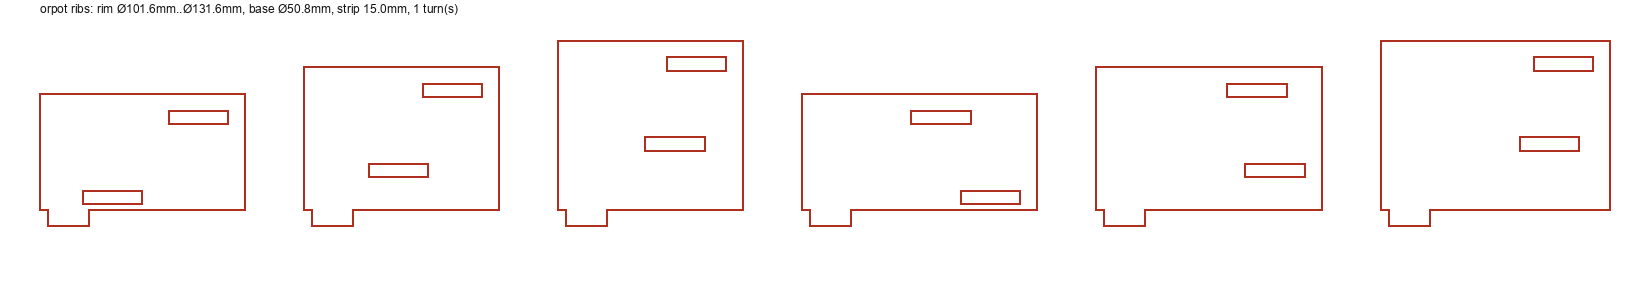
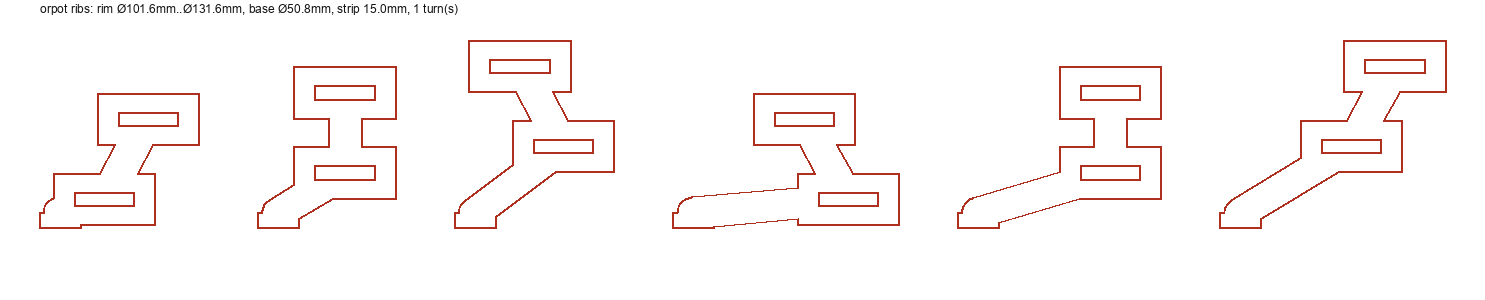
orpot: symmetric spiral spans + narrow spine ribs
- Both spirals now span the same centerline radial range in opposite
  directions (bottom 25.4->58.3, top 58.3->25.4), so each one's start radius
  equals the other's end radius (top_pitch_mm/bottom_pitch_mm default None =
  symmetric span; override to break it). Prereq for the end-joint.
- rib_style="spine" (default): each rib is now a narrow strut skeleton — a
  small collar of material around each capture slot joined by thin struts to
  the base tab — instead of a solid panel ("panel" still available).
- tests updated (ring count no longer assumes the top encloses a hole; width
  probe derives pitch from params). 10 pass.

diff --git a/orpot/ribs.py b/orpot/ribs.py
@@ -21,7 +21,7 @@ from __future__ import annotations
 import math
 
 import numpy as np
-from shapely.geometry import Polygon, box
+from shapely.geometry import LineString, Polygon, box
 from shapely.ops import unary_union
 
 from spiral import SpiralConfig, crossing_rz
@@ -47,32 +47,48 @@ def rib_crossings(
 
 def build_rib(cfg: SpiralConfig, azimuth_rad: float) -> Polygon:
     """Flat cut outline of one rib (in the s-z plane), with capture-slot holes
-    and a base tab. z=0 is the floor; the tab drops to negative z."""
+    and a base tab. z=0 is the floor; the tab drops to negative z.
+
+    cfg.rib_style: "panel" = solid rectangular fin; "spine" (default) = a narrow
+    strut skeleton — a small collar of material around each capture slot, joined
+    by thin struts down to the base tab (minimal material, most open)."""
     crossings = rib_crossings(cfg, azimuth_rad)
     if not crossings:
         raise ValueError("rib azimuth crosses no ramp")
 
     half_w = cfg.strip_w_mm / 2.0
-    s_out = max(r for _, r, _ in crossings) + half_w + cfg.rib_edge_margin_mm
-    s_in = min(cfg.rib_inner_r_mm, min(r for _, r, _ in crossings) - half_w)
-    z_top = max(z for _, _, z in crossings) + cfg.rib_top_lip_mm
-
-    body = box(s_in, 0.0, s_out, z_top)
+    fit = cfg.slot_fit_mm
+    sh = (cfg.material_th_mm + fit) / 2.0  # half slot height (z)
+    sw = (cfg.strip_w_mm + fit) / 2.0  # half slot length (radial)
 
     # Base tab (plugs down into the base disc).
     t0, t1 = cfg.rib_tab_span_mm
-    t0 = max(t0, s_in)
-    t1 = min(t1, s_out)
     tab = box(t0, -cfg.rib_tab_depth_mm, t1, 0.0)
-    outline = unary_union([body, tab])
+    tab_top = ((t0 + t1) / 2.0, 0.0)
+
+    if cfg.rib_style == "panel":
+        s_out = max(r for _, r, _ in crossings) + half_w + cfg.rib_edge_margin_mm
+        s_in = min(cfg.rib_inner_r_mm, min(r for _, r, _ in crossings) - half_w)
+        z_top = max(z for _, _, z in crossings) + cfg.rib_top_lip_mm
+        outline = unary_union([box(s_in, 0.0, s_out, z_top), tab])
+    else:  # spine
+        m = cfg.rib_collar_margin_mm
+        hw = cfg.rib_strut_w_mm / 2.0
+        pieces = [tab]
+        # A collar (small rounded-corner box) of material around each slot.
+        nodes = []  # collar centers, to route struts through
+        for _, r, z in crossings:
+            pieces.append(box(r - sw - m, z - sh - m, r + sw + m, z + sh + m))
+            nodes.append((r, z))
+        # Route struts: base tab -> nodes ordered by height (low to high).
+        route = [tab_top] + sorted(nodes, key=lambda p: p[1])
+        for a, b in zip(route, route[1:]):
+            pieces.append(LineString([a, b]).buffer(hw, cap_style="round"))
+        outline = unary_union(pieces)
 
     # Capture slots: material-thickness tall x strip-width long, + slip fit.
-    fit = cfg.slot_fit_mm
-    sh = (cfg.material_th_mm + fit) / 2.0  # half slot height
-    sw = (cfg.strip_w_mm + fit) / 2.0  # half slot length (radial)
     for _, r, z in crossings:
-        slot = box(r - sw, z - sh, r + sw, z + sh)
-        outline = outline.difference(slot)
+        outline = outline.difference(box(r - sw, z - sh, r + sw, z + sh))
 
     if not isinstance(outline, Polygon):
         outline = max(outline.geoms, key=lambda g: g.area)

diff --git a/orpot/spiral.py b/orpot/spiral.py
@@ -44,8 +44,8 @@ class SpiralConfig:
     strip_w_mm: float = 15.0  # ribbon width for both spirals
     base_dia_mm: float = 2.0 * MM_PER_INCH  # bottom spiral base disc Ø = 50.8
     turns: float = 1.0  # revolutions per spiral
-    top_pitch_mm: float = 15.0  # top ribbon radial advance per rev (inward)
-    bottom_pitch_mm: float | None = None  # None => auto: reach r_max in `turns`
+    top_pitch_mm: float | None = None  # None => symmetric span (winds in to base_r)
+    bottom_pitch_mm: float | None = None  # None => symmetric span (winds out to R_max)
     seg_mm: float = 0.5  # spiral point spacing (curve smoothness)
     min_segment_mm: float = 0.3  # gcode decimation floor (see emit.py)
     margin_mm: float = 8.0  # inset from origin so coords stay positive
@@ -64,6 +64,9 @@ class SpiralConfig:
     rib_tab_depth_mm: float = (
         4.0  # how far the base tab drops below z=0 (into the disc)
     )
+    rib_style: str = "spine"  # "spine" (narrow struts) or "panel" (solid fin)
+    rib_collar_margin_mm: float = 5.0  # material around each capture slot (spine)
+    rib_strut_w_mm: float = 8.0  # width of the connecting struts (spine)
 
     # --- derived radii ---
     @property
@@ -134,18 +137,25 @@ def _ribbon(centerline: LineString, width: float, quad_segs: int) -> Polygon:
 
 def _part_polar_params(name: str, cfg: SpiralConfig) -> tuple[float, float, float]:
     """Shared (r0, pitch, turns) for a part's centerline, so the flat cut and
-    the 3D helix are guaranteed to agree. pitch is signed (negative = inward)."""
+    the 3D helix are guaranteed to agree. pitch is signed (negative = inward).
+
+    Both spirals span the SAME centerline radial range [r_lo, r_hi], in opposite
+    directions, so each one's start radius equals the other's end radius (needed
+    for the interlocking end-joint):
+      bottom: r_lo -> r_hi (winds out)     top: r_hi -> r_lo (winds in)
+    where r_lo = base_r and r_hi = top_outer_r - strip_w/2 (outer edge on R_max).
+    The optional *_pitch_mm overrides break the symmetry if you really want it."""
+    r_lo = cfg.base_r
+    r_hi = cfg.top_outer_r - cfg.strip_w_mm / 2.0
+    span_pitch = (r_hi - r_lo) / cfg.turns  # radial advance per rev to span it once
     if name == "top":
-        r0 = cfg.top_outer_r - cfg.strip_w_mm / 2.0
-        pitch = -abs(cfg.top_pitch_mm)  # winds inward
+        r0 = r_hi
+        pitch = -(abs(cfg.top_pitch_mm) if cfg.top_pitch_mm is not None else span_pitch)
     elif name == "bottom":
-        r0 = cfg.base_r  # centerline on the disc edge -> solid union
-        r_end = cfg.top_outer_r - cfg.strip_w_mm / 2.0  # outer edge lands on R_max
-        if cfg.bottom_pitch_mm is not None:
-            pitch = abs(cfg.bottom_pitch_mm)
-        else:
-            pitch = (r_end - r0) / cfg.turns
-        pitch = abs(pitch)  # winds outward
+        r0 = r_lo
+        pitch = (
+            abs(cfg.bottom_pitch_mm) if cfg.bottom_pitch_mm is not None else span_pitch
+        )
     else:
         raise ValueError(f"unknown part: {name!r} (expected 'top' or 'bottom')")
     return r0, pitch, cfg.turns

diff --git a/orpot/tests/test_spiral.py b/orpot/tests/test_spiral.py
@@ -55,11 +55,13 @@ def test_top_spiral_radii_and_width():
 
 def test_top_ribbon_width_via_radial_probe():
     """Probe the ribbon width on the -x axis (theta=pi), where a single turn
-    crosses cleanly, away from the end caps and the nesting seam at theta=0."""
+    crosses cleanly, away from the end caps and the seam at theta=0."""
+    from spiral import _part_polar_params
+
     cfg = SpiralConfig()
     top = build_top_spiral(cfg)
-    # At theta=pi the top centerline sits at radius r_start - pitch/2.
-    r_mid = (cfg.top_outer_r - cfg.strip_w_mm / 2.0) - cfg.top_pitch_mm / 2.0
+    r0, pitch, _ = _part_polar_params("top", cfg)
+    r_mid = r0 + pitch * 0.5  # centerline radius at theta=pi
     lo = int((r_mid + cfg.strip_w_mm) * 10) + 40
     inside = [
         -x / 10.0
@@ -98,9 +100,9 @@ def test_gcode_conventions_and_bounds():
     gcode = emit_cut_gcode(parts, material, "test", cfg)
 
     # One cut ring per exterior + per interior hole (holes cut first, profile
-    # last). The top spiral's nested turns enclose the central opening -> a hole.
+    # last).
     rings = sum(1 + len(poly.interiors) for _, poly in parts)
-    assert rings == 3  # top: profile + 1 hole; bottom: profile only
+    assert rings >= 2  # at least one profile per part
 
     assert "$32=1" in gcode
     assert ";MATERIAL: mdf_3mm" in gcode